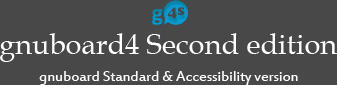
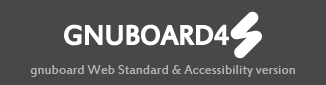
배포용 로고 변경

Changed region(s): [[0.0, 0.0, 1.0, 0.7294], [0.092, 0.7529, 0.9202, 1.0]]

diff --git a/css/mobile.css b/css/mobile.css
@@ -37,9 +37,9 @@ pre {overflow-x:scroll;font-size:1.1em}
 #hd:after {display:block;visibility:hidden;clear:both;content:""}
 #hd h1 {width:0;height:0;font-size:0;line-height:0;overflow:hidden}
 
-#logo {float:left;padding:0.3em 0;margin-left:1em}
+#logo {float:left;padding:0.3em 0;margin-left:0.5em}
 
-#schall {position:absolute;top:0.7em;right:1em;letter-spacing:-0.3em}
+#schall {position:absolute;top:0.7em;right:0.5em;letter-spacing:-0.3em}
 #schall_stx {padding-left:0.3em;width:100px;height:1.5em;border:1px solid #aaa;border-right:0;background:#fff;line-height:1.5em;-webkit-appearance:none}
 #schall_submit {border:1px solid #aaa;border-left:0}
 

diff --git a/css/default.css b/css/default.css
@@ -25,7 +25,7 @@ a:hover, a:focus, a:active {color:#000;text-decoration:underline}
 #logo {padding:17px 0}
 
 /* 전체 검색 */
-#sch_all {position:absolute;top:22px;left:70px;margin:0;padding:0;border:1px solid #555}
+#sch_all {position:absolute;top:22px;left:170px;margin:0;padding:0;border:1px solid #555}
 #sch_all legend {position:absolute;margin:0;padding:0;font-size:0;line-height:0;text-indent:-9999em;overflow:hidden}
 #sch_all_stx {padding-left:5px;width:165px;height:24px;border:0;background:#fff;line-height:1.9em !important;line-height:1.6em}
 #sch_all_submit {padding:0 5px;height:26px;border:0;background:#555;color:#fff}

diff --git a/mobile/head.php b/mobile/head.php
@@ -19,7 +19,7 @@ include_once(G4_LIB_PATH.'/popular.lib.php');
     <div id="hd_wrapper">
 
         <div id="logo">
-            <a href="<?php echo G4_URL ?>"><img src="<?php echo G4_IMG_URL ?>/logo.jpg" alt="처음으로" width="53" height="37"></a>
+            <a href="<?php echo G4_URL ?>"><img src="<?php echo G4_IMG_URL ?>/logo.jpg" alt="처음으로"></a>
         </div>
 
         <fieldset id="schall">
